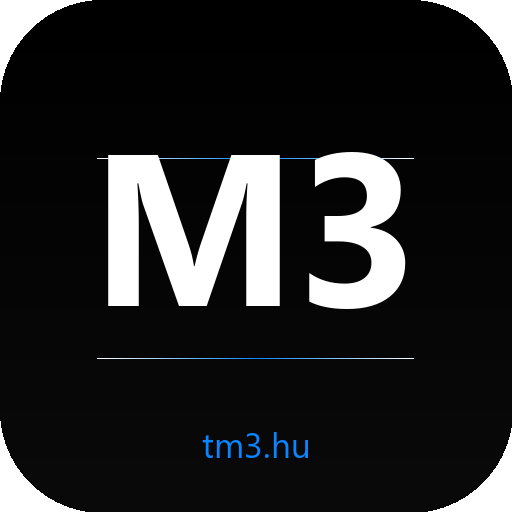
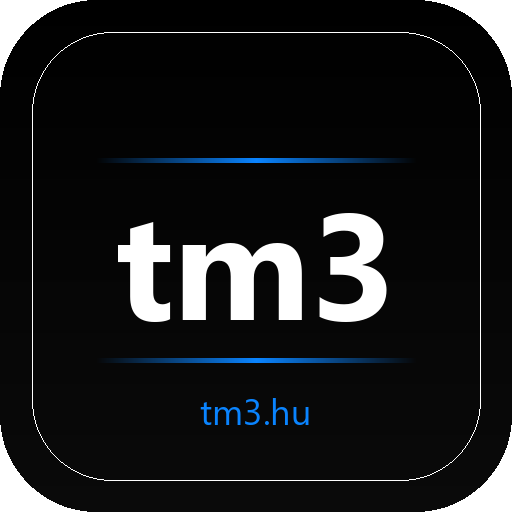
Brand mark: M3 -> tm3 (megszünteti a BMW M3 / M3-as autópálya kétértelműséget)

diff --git a/assets/js/site.js b/assets/js/site.js
@@ -74,7 +74,7 @@
             <header class="navbar" id="site-nav">
                 <div class="nav-wrap">
                     <a href="${homeHref}" class="brand" aria-label="tm3.hu">
-                        <span class="brand-mark">M3</span>
+                        <span class="brand-mark">tm3</span>
                         <span>tm3.hu</span>
                     </a>
                     <nav class="main-nav" id="site-main-nav" aria-label="Fő navigáció">

diff --git a/pages/akkumulator.html b/pages/akkumulator.html
@@ -151,7 +151,7 @@
     <header class="navbar" id="site-nav">
         <div class="nav-wrap">
             <a href="../index.html" class="brand" aria-label="tm3.hu">
-                <span class="brand-mark">M3</span>
+                <span class="brand-mark">tm3</span>
                 <span>tm3.hu</span>
             </a>
                                     <nav class="main-nav" id="site-main-nav" aria-label="Fő navigáció">

diff --git a/pages/blog.html b/pages/blog.html
@@ -170,7 +170,7 @@
     <header class="navbar" id="site-nav">
         <div class="nav-wrap">
             <a href="../index.html" class="brand" aria-label="tm3.hu">
-                <span class="brand-mark">M3</span>
+                <span class="brand-mark">tm3</span>
                 <span>tm3.hu</span>
             </a>
                                     <nav class="main-nav" id="site-main-nav" aria-label="Fő navigáció">

diff --git a/pages/fogyasztas.html b/pages/fogyasztas.html
@@ -170,7 +170,7 @@
     <header class="navbar" id="site-nav">
         <div class="nav-wrap">
             <a href="../index.html" class="brand" aria-label="tm3.hu">
-                <span class="brand-mark">M3</span>
+                <span class="brand-mark">tm3</span>
                 <span>tm3.hu</span>
             </a>
                                     <nav class="main-nav" id="site-main-nav" aria-label="Fő navigáció">

diff --git a/pages/forum.html b/pages/forum.html
@@ -141,7 +141,7 @@
     <header class="navbar" id="site-nav">
         <div class="nav-wrap">
             <a href="../index.html" class="brand" aria-label="tm3.hu">
-                <span class="brand-mark">M3</span>
+                <span class="brand-mark">tm3</span>
                 <span>tm3.hu</span>
             </a>
                                     <nav class="main-nav" id="site-main-nav" aria-label="Fő navigáció">

diff --git a/pages/gumi.html b/pages/gumi.html
@@ -222,7 +222,7 @@
     <header class="navbar" id="site-nav">
         <div class="nav-wrap">
             <a href="../index.html" class="brand" aria-label="tm3.hu">
-                <span class="brand-mark">M3</span>
+                <span class="brand-mark">tm3</span>
                 <span>tm3.hu</span>
             </a>
                                     <nav class="main-nav" id="site-main-nav" aria-label="Fő navigáció">

diff --git a/pages/gyik.html b/pages/gyik.html
@@ -169,7 +169,7 @@
     <header class="navbar" id="site-nav">
         <div class="nav-wrap">
             <a href="../index.html" class="brand" aria-label="tm3.hu">
-                <span class="brand-mark">M3</span>
+                <span class="brand-mark">tm3</span>
                 <span>tm3.hu</span>
             </a>
                                     <nav class="main-nav" id="site-main-nav" aria-label="Fő navigáció">

diff --git a/pages/hibak.html b/pages/hibak.html
@@ -170,7 +170,7 @@
     <header class="navbar" id="site-nav">
         <div class="nav-wrap">
             <a href="../index.html" class="brand" aria-label="tm3.hu">
-                <span class="brand-mark">M3</span>
+                <span class="brand-mark">tm3</span>
                 <span>tm3.hu</span>
             </a>
                                     <nav class="main-nav" id="site-main-nav" aria-label="Fő navigáció">

diff --git a/pages/hoszivattyu.html b/pages/hoszivattyu.html
@@ -140,7 +140,7 @@
     <header class="navbar" id="site-nav">
         <div class="nav-wrap">
             <a href="../index.html" class="brand" aria-label="tm3.hu">
-                <span class="brand-mark">M3</span>
+                <span class="brand-mark">tm3</span>
                 <span>tm3.hu</span>
             </a>
                                     <nav class="main-nav" id="site-main-nav" aria-label="Fő navigáció">

diff --git a/pages/jogi.html b/pages/jogi.html
@@ -171,7 +171,7 @@
     <header class="navbar" id="site-nav">
         <div class="nav-wrap">
             <a href="../index.html" class="brand" aria-label="tm3.hu">
-                <span class="brand-mark">M3</span>
+                <span class="brand-mark">tm3</span>
                 <span>tm3.hu</span>
             </a>
                                     <nav class="main-nav" id="site-main-nav" aria-label="Fő navigáció">

diff --git a/pages/kalkulator.html b/pages/kalkulator.html
@@ -170,7 +170,7 @@
     <header class="navbar" id="site-nav">
         <div class="nav-wrap">
             <a href="../index.html" class="brand" aria-label="tm3.hu">
-                <span class="brand-mark">M3</span>
+                <span class="brand-mark">tm3</span>
                 <span>tm3.hu</span>
             </a>
                                     <nav class="main-nav" id="site-main-nav" aria-label="Fő navigáció">

diff --git a/pages/kozosseg.html b/pages/kozosseg.html
@@ -184,7 +184,7 @@
     <header class="navbar" id="site-nav">
         <div class="nav-wrap">
             <a href="../index.html" class="brand" aria-label="tm3.hu">
-                <span class="brand-mark">M3</span>
+                <span class="brand-mark">tm3</span>
                 <span>tm3.hu</span>
             </a>
                                     <nav class="main-nav" id="site-main-nav" aria-label="Fő navigáció">
